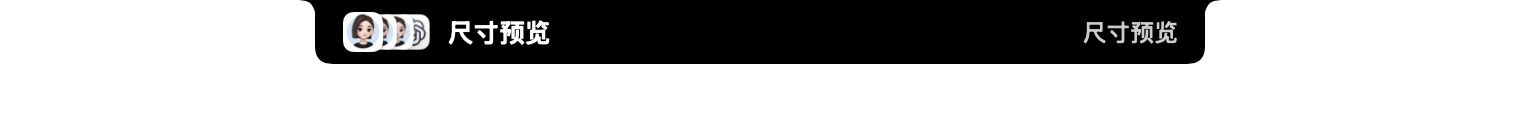
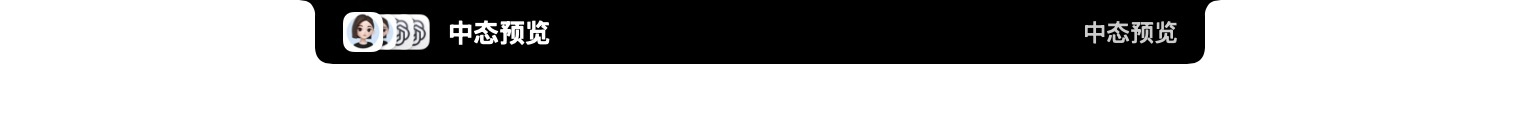
docs(L1): replace concept poster interfaces with real product captures

Changed region(s): [[0.2474, 0.15, 0.3401, 0.375], [0.7112, 0.175, 0.7421, 0.375]]

diff --git a/docs/media/alpha-covers-20261008-v2/compose_covers.py b/docs/media/alpha-covers-20261008-v2/compose_covers.py
@@ -1,0 +1,69 @@
+from pathlib import Path
+from PIL import Image, ImageDraw, ImageFont, ImageFilter
+
+LOCAL=Path(__file__).resolve().parent
+IN_PROJECT=LOCAL.name=='alpha-covers-20261008-v2'
+MEDIA=LOCAL.parent if IN_PROJECT else Path('/Users/wangpengfei/Documents/Obsidian Vault/作品集/linglongtai-hud/docs/media')
+OUT=LOCAL if IN_PROJECT else Path('/private/tmp/agent-island-posters-20261008-v2')
+FONT='/System/Library/Fonts/Hiragino Sans GB.ttc'
+OUT.mkdir(exist_ok=True)
+
+def text(draw, xy, value, size, color):
+    draw.multiline_text(xy,value,font=ImageFont.truetype(FONT,size,index=0),fill=color,spacing=18)
+
+def capture(path,box):
+    with Image.open(path) as source:
+        shot=source.convert('RGBA').crop(box)
+    px=shot.load()
+    for y in range(shot.height):
+        for direction in (range(shot.width),range(shot.width-1,-1,-1)):
+            for x in direction:
+                if min(px[x,y][:3])<=235: break
+                px[x,y]=(0,0,0,0)
+    return shot
+
+def poster(name,heading,body,note,shot,dark=False):
+    bg=(12,16,18) if dark else (244,245,241)
+    fg=(242,245,244) if dark else (21,28,28)
+    muted=(149,158,157) if dark else (104,112,110)
+    canvas=Image.new('RGBA',(1920,1080),bg+(255,))
+    x,y,w,h=855,257,990,900
+    shadow=Image.new('RGBA',canvas.size)
+    ImageDraw.Draw(shadow).rounded_rectangle((x-14,y-14,x+w+14,y+h),42,fill=(0,0,0,60))
+    canvas.alpha_composite(shadow.filter(ImageFilter.GaussianBlur(22)))
+    draw=ImageDraw.Draw(canvas)
+    draw.rounded_rectangle((x-8,y-8,x+w+8,y+h),36,fill=(91,97,95),outline=(166,171,168),width=2)
+    draw.rounded_rectangle((x-4,y-4,x+w+4,y+h),32,fill=(11,15,15))
+    base='states-base-v1.png' if dark else 'focus-base-v1.png'
+    with Image.open(MEDIA/'alpha-covers-20261007-v1'/base) as image:
+        # Reuse only wallpaper; none of the old generated notch survives.
+        wallpaper=image.convert('RGBA').crop((290,650,1080,1080)).resize((w,h),Image.Resampling.LANCZOS)
+    mask=Image.new('L',(w,h))
+    ImageDraw.Draw(mask).rounded_rectangle((0,0,w,h),29,fill=255)
+    wallpaper.putalpha(mask)
+    canvas.alpha_composite(wallpaper,(x,y))
+    # Preserve the compact/medium size relationship at identical display scale.
+    scale=(w-36)/(1320 if shot.height>100 else 920)
+    shot=shot.resize((round(shot.width*scale),round(shot.height*scale)),Image.Resampling.LANCZOS)
+    canvas.alpha_composite(shot,(x+(w-shot.width)//2,y))
+    draw=ImageDraw.Draw(canvas)
+    text(draw,(84,86),'Agent 灵动岛',29,fg)
+    text(draw,(84,133),'MULTI-AGENT · macOS',16,muted)
+    text(draw,(84,280),heading,76,fg)
+    text(draw,(88,600),body,29,muted)
+    text(draw,(88,807),note,22,muted)
+    text(draw,(84,1000),'真实产品界面合成 · 非整屏实拍',19,muted)
+    canvas.convert('RGB').save(OUT/name)
+
+small=capture(MEDIA/'real-product-ui/01-small-state-20261008.jpg',(465,0,1055,80))
+middle_source=MEDIA/'real-product-ui/02-middle-state-preview-20261008.jpg' if IN_PROJECT else Path('/private/tmp/agent-island-middle-preview-updated-crop.jpg')
+medium=capture(middle_source,(300,0,1220,80))
+overview=capture(MEDIA/'real-product-ui/03-task-overview-20261008.jpg',(100,0,1420,910))
+poster('01-hero-agent-island.png','你的 Agent，\n在忙什么？\n一眼看见。','把多个 Agent 的任务状态\n收进 Mac 顶部的一座岛。','小态 · 低干扰地保留状态\n真实数据截图，不推测进度',small)
+poster('02-status-awareness.png','少切窗口，\n看清关键状态。','重要变化横向展开，\n长任务随后收回小态。','中态 · 当前版本界面\n此图为「中态预览」，非任务事件',medium)
+poster('03-ambient-states.png','悬停展开，\n看清详情。','连续悬停 0.2 秒展开，\n移开后回到对应状态。','最近 24 小时任务记录\n查看会话线索与已返回步骤',overview,True)
+sheet=Image.new('RGB',(960,1620))
+for i,name in enumerate(('01-hero-agent-island.png','02-status-awareness.png','03-ambient-states.png')):
+    with Image.open(OUT/name) as im:
+        sheet.paste(im.resize((960,540),Image.Resampling.LANCZOS),(0,i*540))
+sheet.save(OUT/'00-poster-preview.jpg',quality=95)

diff --git a/docs/POSTERS.md b/docs/POSTERS.md
@@ -1,0 +1,21 @@
+# Agent 灵动岛 · 产品介绍海报
+
+2026-10-08 v2：用真实产品截图替换旧版概念界面，保留浅色 / 深色视觉方向。
+
+这些是**真实产品界面与展示背景的合成海报**，不是 Mac 整屏实拍。界面仅裁剪、等比缩放和移除窗口外围白底，未重画厂商图标、状态或步骤。中态为应用内置「中态预览」，不代表任务事件；任务总览是截取当时的数据，不代表实时进度。
+
+## 小态
+
+![小态产品海报](media/alpha-covers-20261008-v2/01-hero-agent-island.png)
+
+## 中态
+
+![中态产品海报](media/alpha-covers-20261008-v2/02-status-awareness.png)
+
+## Hover 展开态
+
+![任务总览产品海报](media/alpha-covers-20261008-v2/03-ambient-states.png)
+
+图片尺寸均为 1920 × 1080。排版源文件：`media/alpha-covers-20261008-v2/compose_covers.py`。背景沿用旧版素材中不包含界面的壁纸区域。旧版保留供对比，未作为本版产品界面使用。
+
+本版只在本地生成与保存，未推送 GitHub。

diff --git a/README.md b/README.md
@@ -11,6 +11,8 @@
 
 图标从本机安装的应用读取，不另行仿制厂商 Logo；未安装时明确使用通用占位。视觉、交互与功能有独立验收 Agent，不作为 HUD 内第五个身份。
 
+产品介绍海报：[三张真实界面合成海报](docs/POSTERS.md)。
+
 ## 真实产品界面
 
 以下三张均来自 2026-10-08 当前运行版本，不是生成图。窗口截图中的透明区域显示为白色，图片只做裁剪。
@@ -23,9 +25,9 @@
 
 ### 中态 · 横向展开
 
-使用设置中的“预览中态”截取真实界面，图中“尺寸预览”不是任务事件；没有创建或修改真实任务。
+使用设置中的“预览中态”截取真实界面，图中“中态预览”不是任务事件；没有创建或修改真实任务。
 
-![Agent 灵动岛中态尺寸预览](docs/media/real-product-ui/02-middle-state-preview-20261008.jpg)
+![Agent 灵动岛中态预览](docs/media/real-product-ui/02-middle-state-preview-20261008.jpg)
 
 ### Hover 展开态 · 任务总览
 
